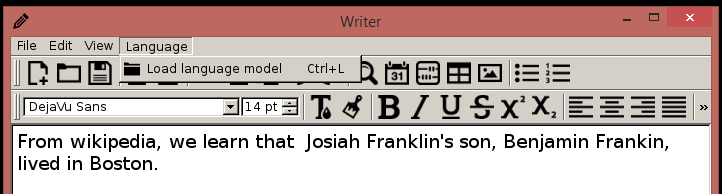
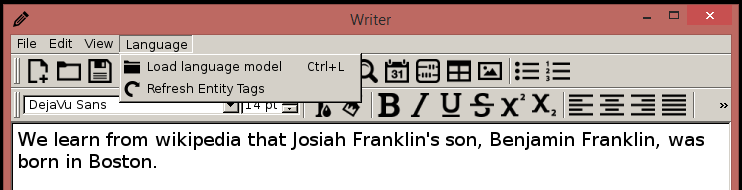
Now saves entities to disk. Added manual entity tag refresh.

Changed region(s): [[0.0, 0.0, 1.0, 0.6579], [0.0, 0.6842, 0.9751, 0.8947]]

diff --git a/app.py b/app.py
@@ -1,4 +1,4 @@
-import sys, os
+import sys, os, json
 from nltk import tokenize as nl_tokenize
 from PyQt4 import QtGui, QtCore
 from PyQt4.QtCore import Qt
@@ -39,6 +39,10 @@ class Main(QtGui.QMainWindow):
         self.loadModelAction.setStatusTip("Load MITIE NER model")
         self.loadModelAction.setShortcut("Ctrl+L")
         self.loadModelAction.triggered.connect(self.loadModel)
+
+        self.refreshTagsAction = QtGui.QAction(QtGui.QIcon("icons/redo.png"),"Refresh Entity Tags",self)
+        self.refreshTagsAction.setStatusTip("Relabel all entities in document")
+        self.refreshTagsAction.triggered.connect(self.get_tags)
 
         self.saveAction = QtGui.QAction(QtGui.QIcon("icons/save.png"),"Save",self)
         self.saveAction.setStatusTip("Save document")
@@ -277,6 +281,7 @@ class Main(QtGui.QMainWindow):
         view.addAction(statusbarAction)
 
         language.addAction(self.loadModelAction)
+        language.addAction(self.refreshTagsAction)
 
     def initUI(self):
 
@@ -318,18 +323,20 @@ class Main(QtGui.QMainWindow):
             complete_sentences = all('.' in s or '!' in s or '?' in s for s in sentences)
             if complete_sentences:
                 if len(sentences) != self.sentence_count:
-                    tokens = tokenize(key)
-                    entities = self.ner.extract_entities(tokens)
-                    print "\n\n\n===================================================="
-                    for e in entities:
-                        range = e[0]
-                        tag = e[1]
-                        score = e[2]
-                        score_text = "{:0.3f}".format(score)
-                        entity_text = " ".join(tokens[i] for i in range)
-                        print "   Score: " + score_text + ": " + tag + ": " + entity_text
-
+                    entities = self.get_tags()
                     self.sentence_count = len(sentences)
+
+    def get_tags(self):
+        entities = list()
+        if self.loaded_language:
+            tokens = tokenize(str(self.text.toPlainText()))
+            entities = self.ner.extract_entities(tokens)
+            print "\n\n\n===================================================="
+            for e in entities:
+                tag = e[1]
+                print "   " + tag + ": " + " ".join(tokens[i] for i in e[0])
+        return entities
+
 
     def closeEvent(self,event):
 
@@ -563,10 +570,10 @@ class Main(QtGui.QMainWindow):
 
 
     def loadModel(self):
-        self.filename = QtGui.QFileDialog.getOpenFileName(self, 'Open File','.','(*.dat)')
-        if self.filename:
+        modelfile = QtGui.QFileDialog.getOpenFileName(self, 'Open File','.','(*.dat)')
+        if modelfile:
             QtGui.QApplication.setOverrideCursor(QtCore.Qt.WaitCursor)
-            self.ner = self.ner = named_entity_extractor(str(self.filename))
+            self.ner = self.ner = named_entity_extractor(str(modelfile))
             self.loaded_language = True
             QtGui.QApplication.restoreOverrideCursor()
 
@@ -579,8 +586,36 @@ class Main(QtGui.QMainWindow):
         if self.filename:
             
             # Append extension if not there yet
-            if not self.filename.endswith(".writer"):
+            if not self.filename.endsWith(".writer"):
               self.filename += ".writer"
+
+            if self.loaded_language:
+                entity_filename = ''.join(str(i) for i in self.filename.split('.')[:-1])+'.entities'
+                tokens = tokenize(str(self.text.toPlainText()))
+                entities = self.get_tags()
+
+                # Encode as JSON
+                data = {'PERSON':{'count':0, 'entities':dict()}, 
+                        'LOCATION':{'count':0, 'entities':dict()}, 
+                        'ORGANIZATION':{'count':0, 'entities':dict()},
+                        'MISC':{'count':0, 'entities':dict()}}
+
+                for e in entities:
+                    tag = e[1]
+                    text = " ".join(tokens[i] for i in e[0])
+                    if tag not in data:
+                        data[tag] = {'count':1}
+                        data[tag]['entities'] = dict()
+                    else:
+                        data[tag]['count'] += 1
+
+                    if text not in data[tag]['entities']:
+                        data[tag]['entities'][text] = 1
+                    else:
+                        data[tag]['entities'][text] += 1
+
+                with open(entity_filename,'w') as outfile:
+                    json.dump(data, outfile)
 
             # We just store the contents of the text file along with the
             # format in html, which Qt does in a very nice way for us
